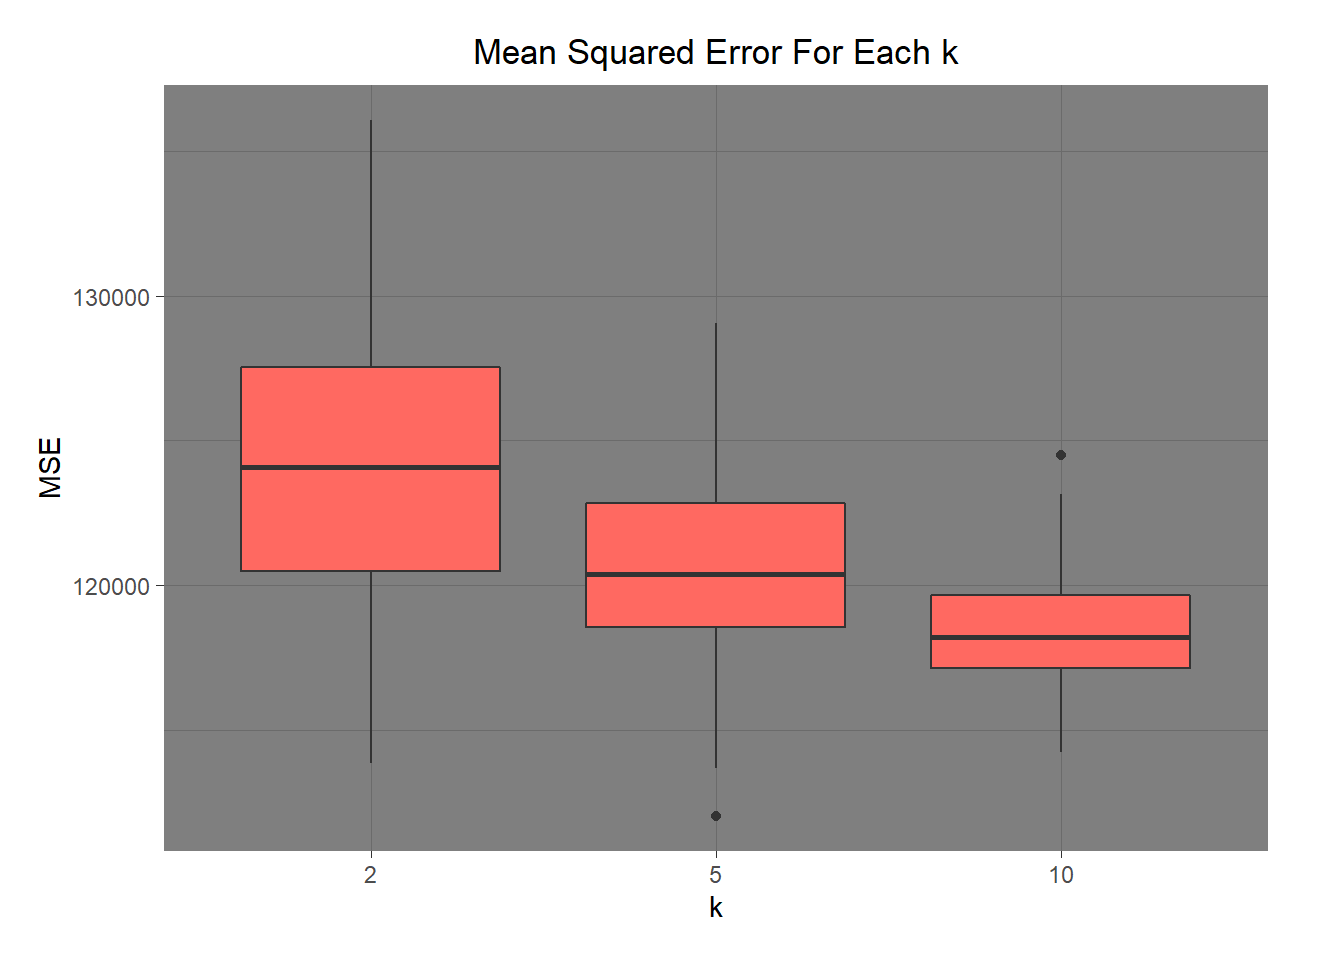
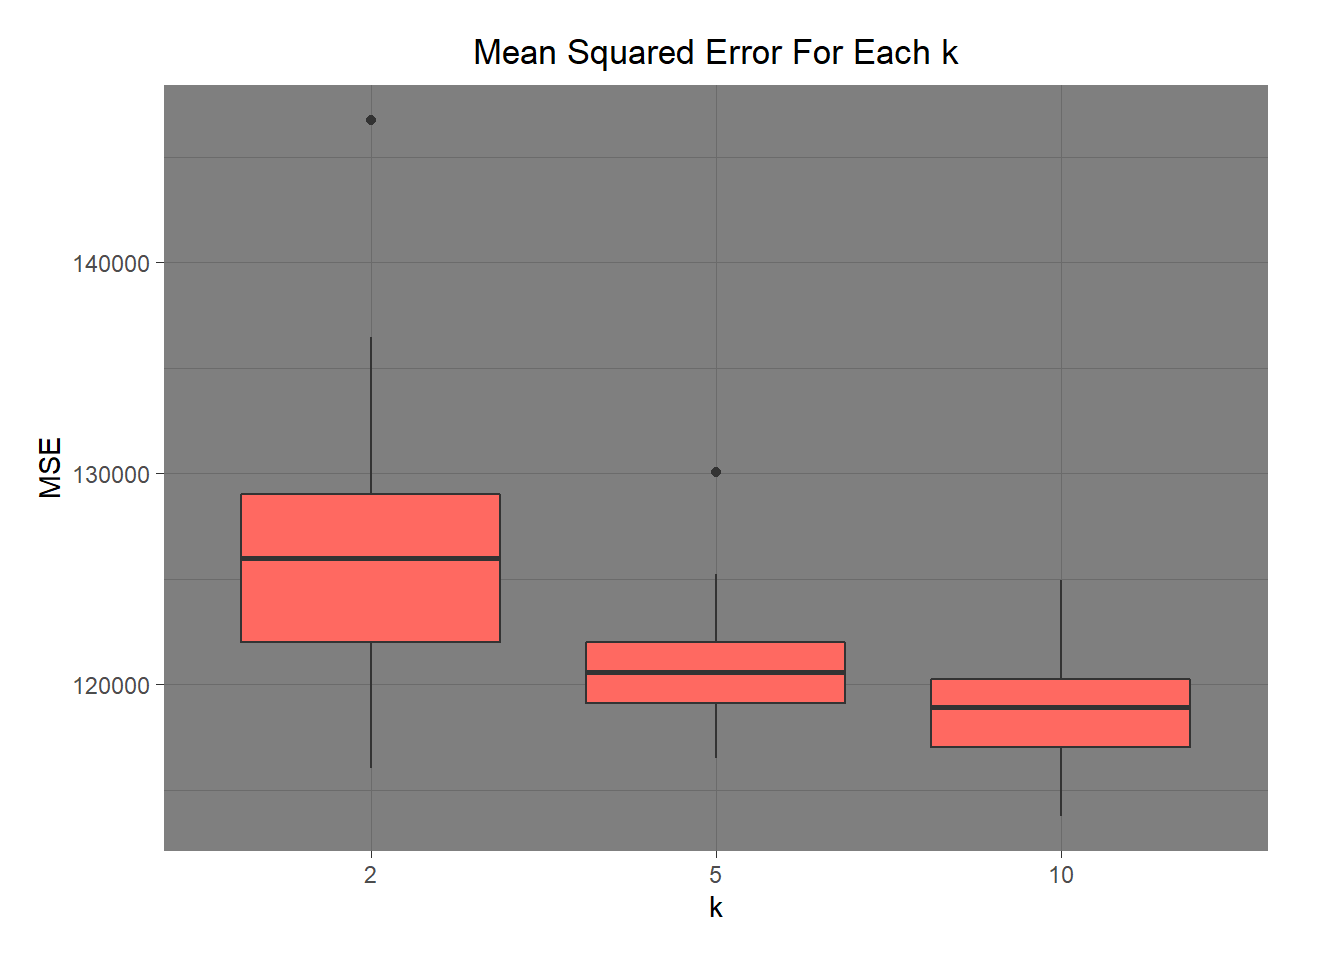
Minor edits to rf_simulations output

diff --git a/Analysis/analysis.html b/Analysis/analysis.html
@@ -246,8 +246,12 @@ for (k in k_vals) {
   }
 start &lt;- start + reps
 }
+# Create copy for saving
+out_save &lt;- out %&gt;%
+  #C hange k value strings to numbers so data looks nicer
+  mutate(k = rep(c(2,5,10), each = 30))
 # Save data in Results folder
-write.csv(out, file = &quot;../Output/Results/rf_simulations.csv&quot;, row.names = FALSE)</code></pre>
+write.csv(out_save, file = &quot;../Output/Results/rf_simulations.csv&quot;, row.names = FALSE)</code></pre>
 <p>Next, we’ll plot the MSE for each <code>k</code> and summarize the data:</p>
 <pre class="r"><code># Make k column a factor and relevel
 out$k &lt;- factor(out$k, levels = c(&quot;k_2&quot;, &quot;k_5&quot;, &quot;k_10&quot;))
@@ -264,7 +268,7 @@ rf_plot &lt;- ggplot(data = out, aes(y = mse, x = k)) +
 # Save plot to Figures folder
 ggsave(&quot;../Output/Figures/MSE_boxplot.png&quot;)
 rf_plot</code></pre>
[2 lines of base64/hex data omitted]
 <pre class="r"><code># Group by k and summarize: mean and sd
 summary &lt;- out %&gt;%
   # Change k value strings to numbers so table looks nicer
@@ -298,10 +302,10 @@ SD MSE
 2
 </td>
 <td style="text-align:right;">
-124332.2
+126371.5
 </td>
 <td style="text-align:right;">
-5630.836
+6102.306
 </td>
 </tr>
 <tr>
@@ -309,10 +313,10 @@ SD MSE
 5
 </td>
 <td style="text-align:right;">
-120293.6
+120875.7
 </td>
 <td style="text-align:right;">
-3794.823
+2701.701
 </td>
 </tr>
 <tr>
@@ -320,10 +324,10 @@ SD MSE
 10
 </td>
 <td style="text-align:right;">
-118555.7
+118843.4
 </td>
 <td style="text-align:right;">
-2171.296
+2584.468
 </td>
 </tr>
 </tbody>
